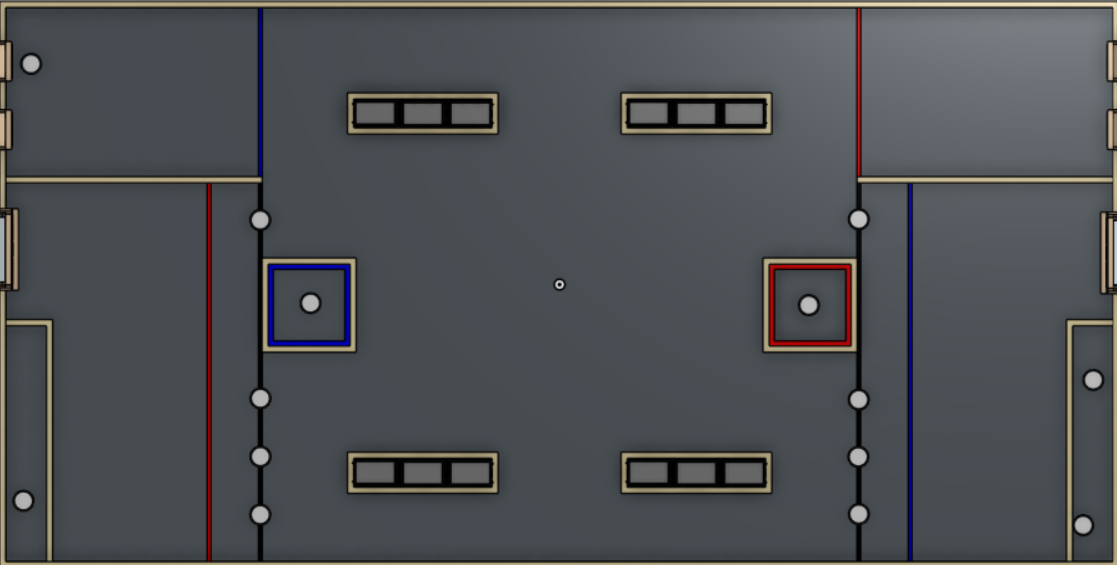
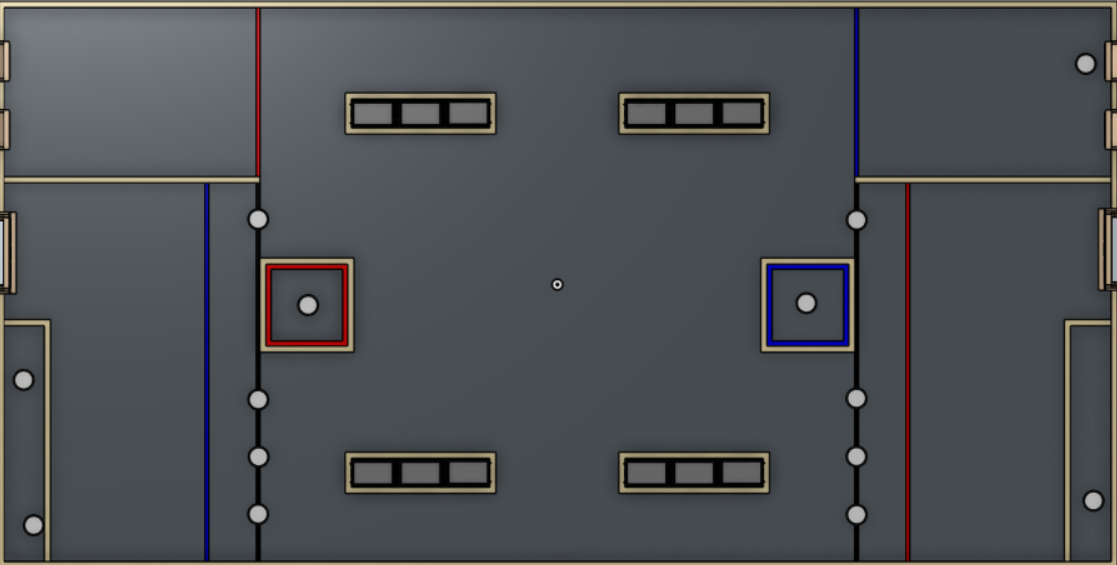
fix: overrun and image flip (#19)

diff --git a/src/main/java/frc/robot/Robot.java b/src/main/java/frc/robot/Robot.java
@@ -5,7 +5,6 @@
 package frc.robot;
 
 import edu.wpi.first.wpilibj.TimedRobot;
-import edu.wpi.first.wpilibj.Timer;
 import edu.wpi.first.wpilibj2.command.Command;
 import edu.wpi.first.wpilibj2.command.CommandScheduler;
 
@@ -21,8 +20,6 @@ public class Robot extends TimedRobot {
   private Command m_autonomousCommand;
 
   private RobotContainer m_robotContainer;
-
-  private Timer disabledTimer;
 
   public Robot() {
     instance = this;
@@ -41,11 +38,6 @@ public class Robot extends TimedRobot {
     // Instantiate our RobotContainer.  This will perform all our button bindings, and put our
     // autonomous chooser on the dashboard.
     m_robotContainer = new RobotContainer();
-
-    // Create a timer to disable motor brake a few seconds after disable.  This will let the robot
-    // stop
-    // immediately when disabled, but then also let it be pushed more
-    disabledTimer = new Timer();
   }
 
   /**
@@ -66,11 +58,7 @@ public class Robot extends TimedRobot {
 
   /** This function is called once each time the robot enters Disabled mode. */
   @Override
-  public void disabledInit() {
-    m_robotContainer.setMotorBrake(true);
-    disabledTimer.reset();
-    disabledTimer.start();
-  }
+  public void disabledInit() {}
 
   @Override
   public void disabledPeriodic() {}
@@ -102,7 +90,6 @@ public class Robot extends TimedRobot {
       CommandScheduler.getInstance().cancelAll();
     }
     m_robotContainer.setDriveMode();
-    m_robotContainer.setMotorBrake(true);
   }
 
   /** This function is called periodically during operator control. */
